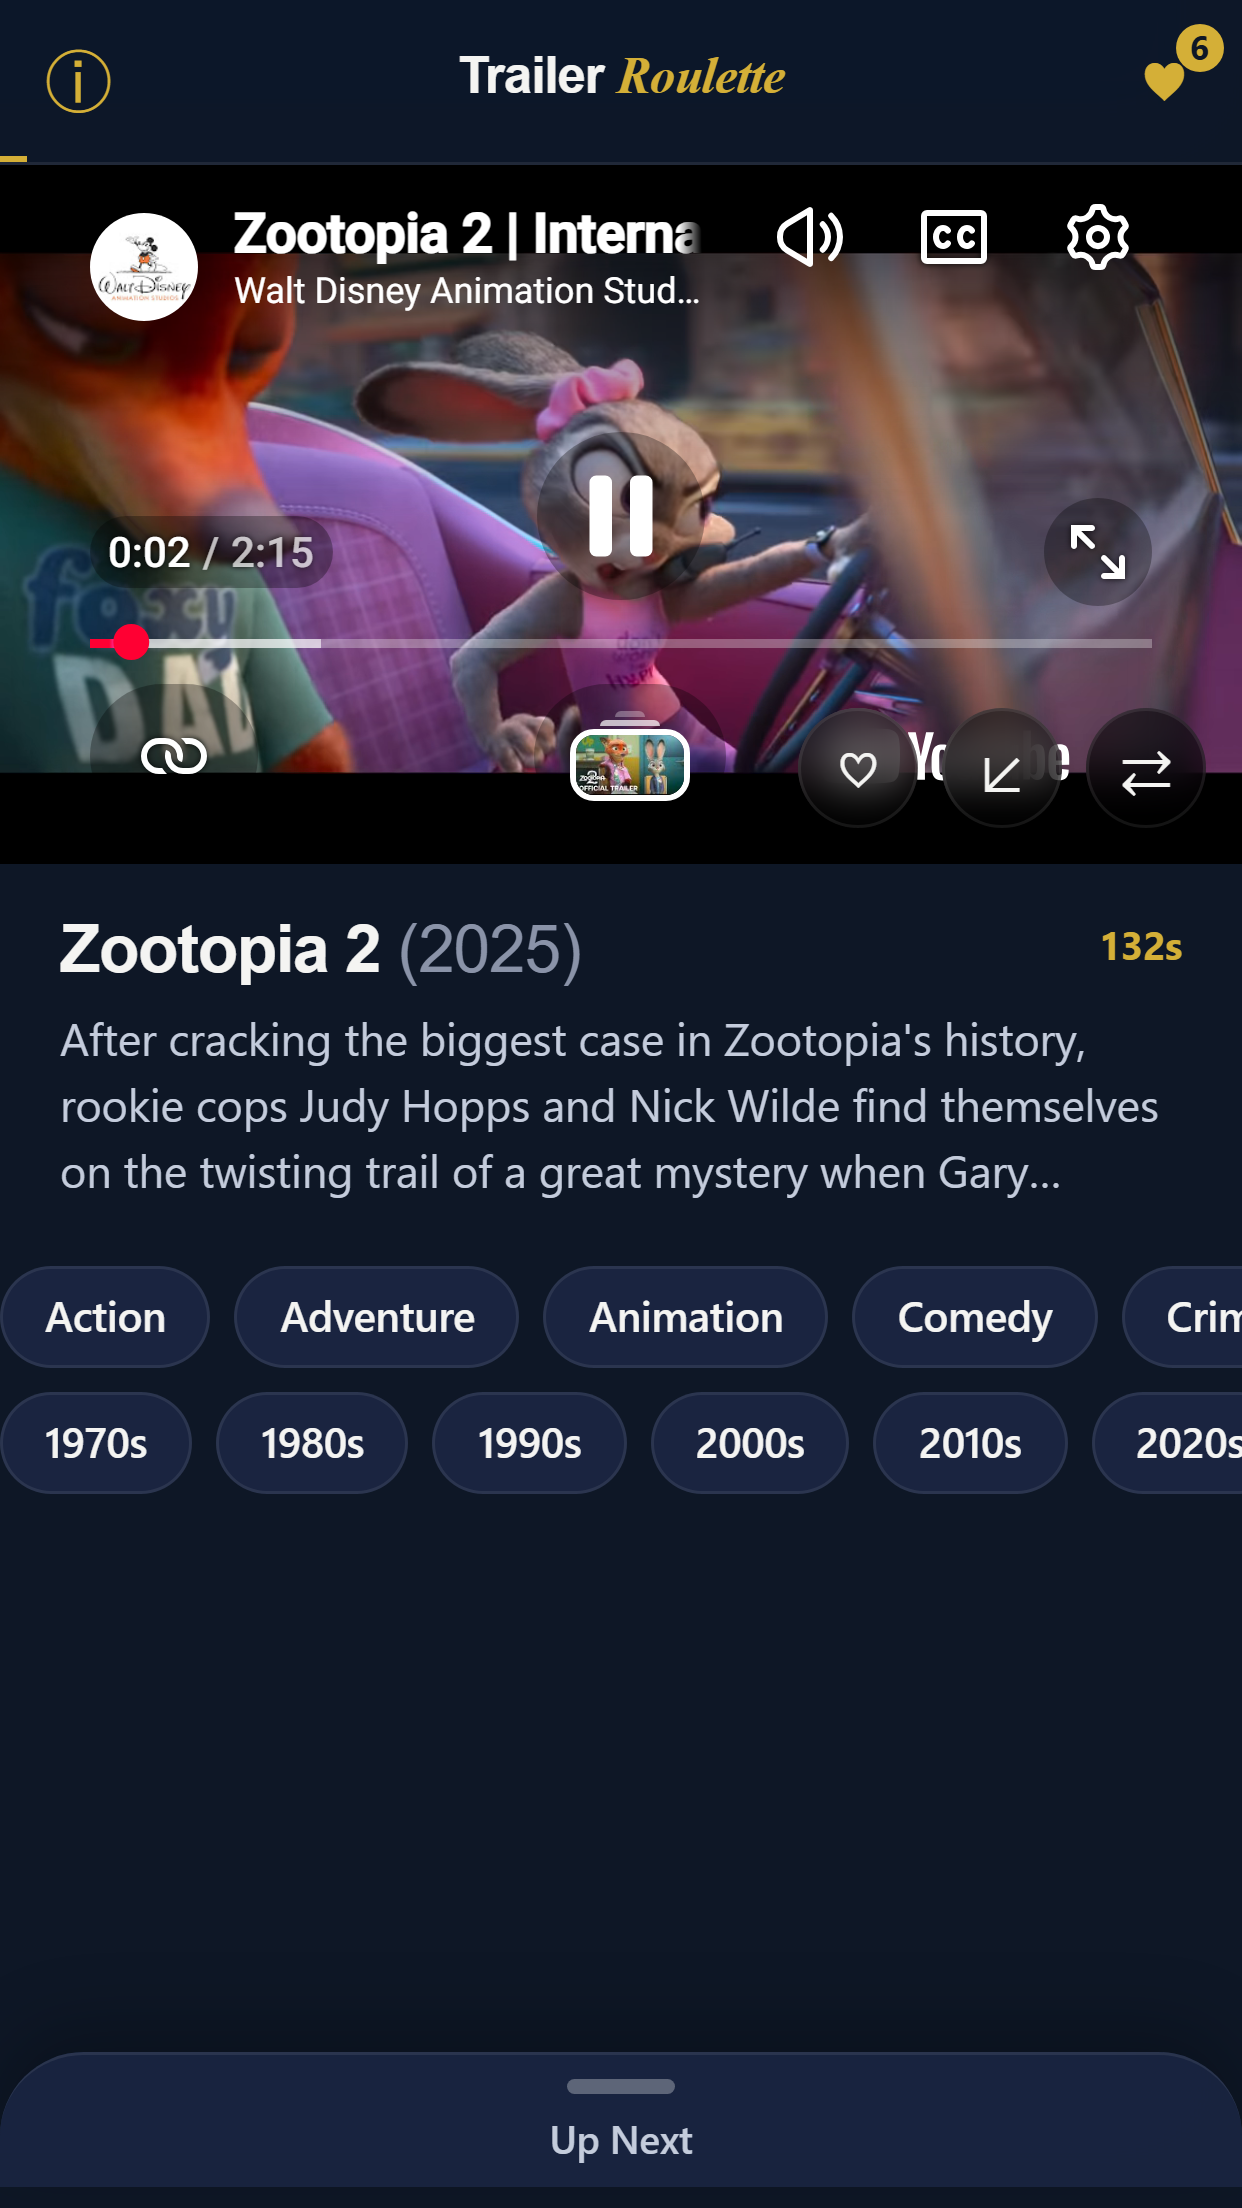
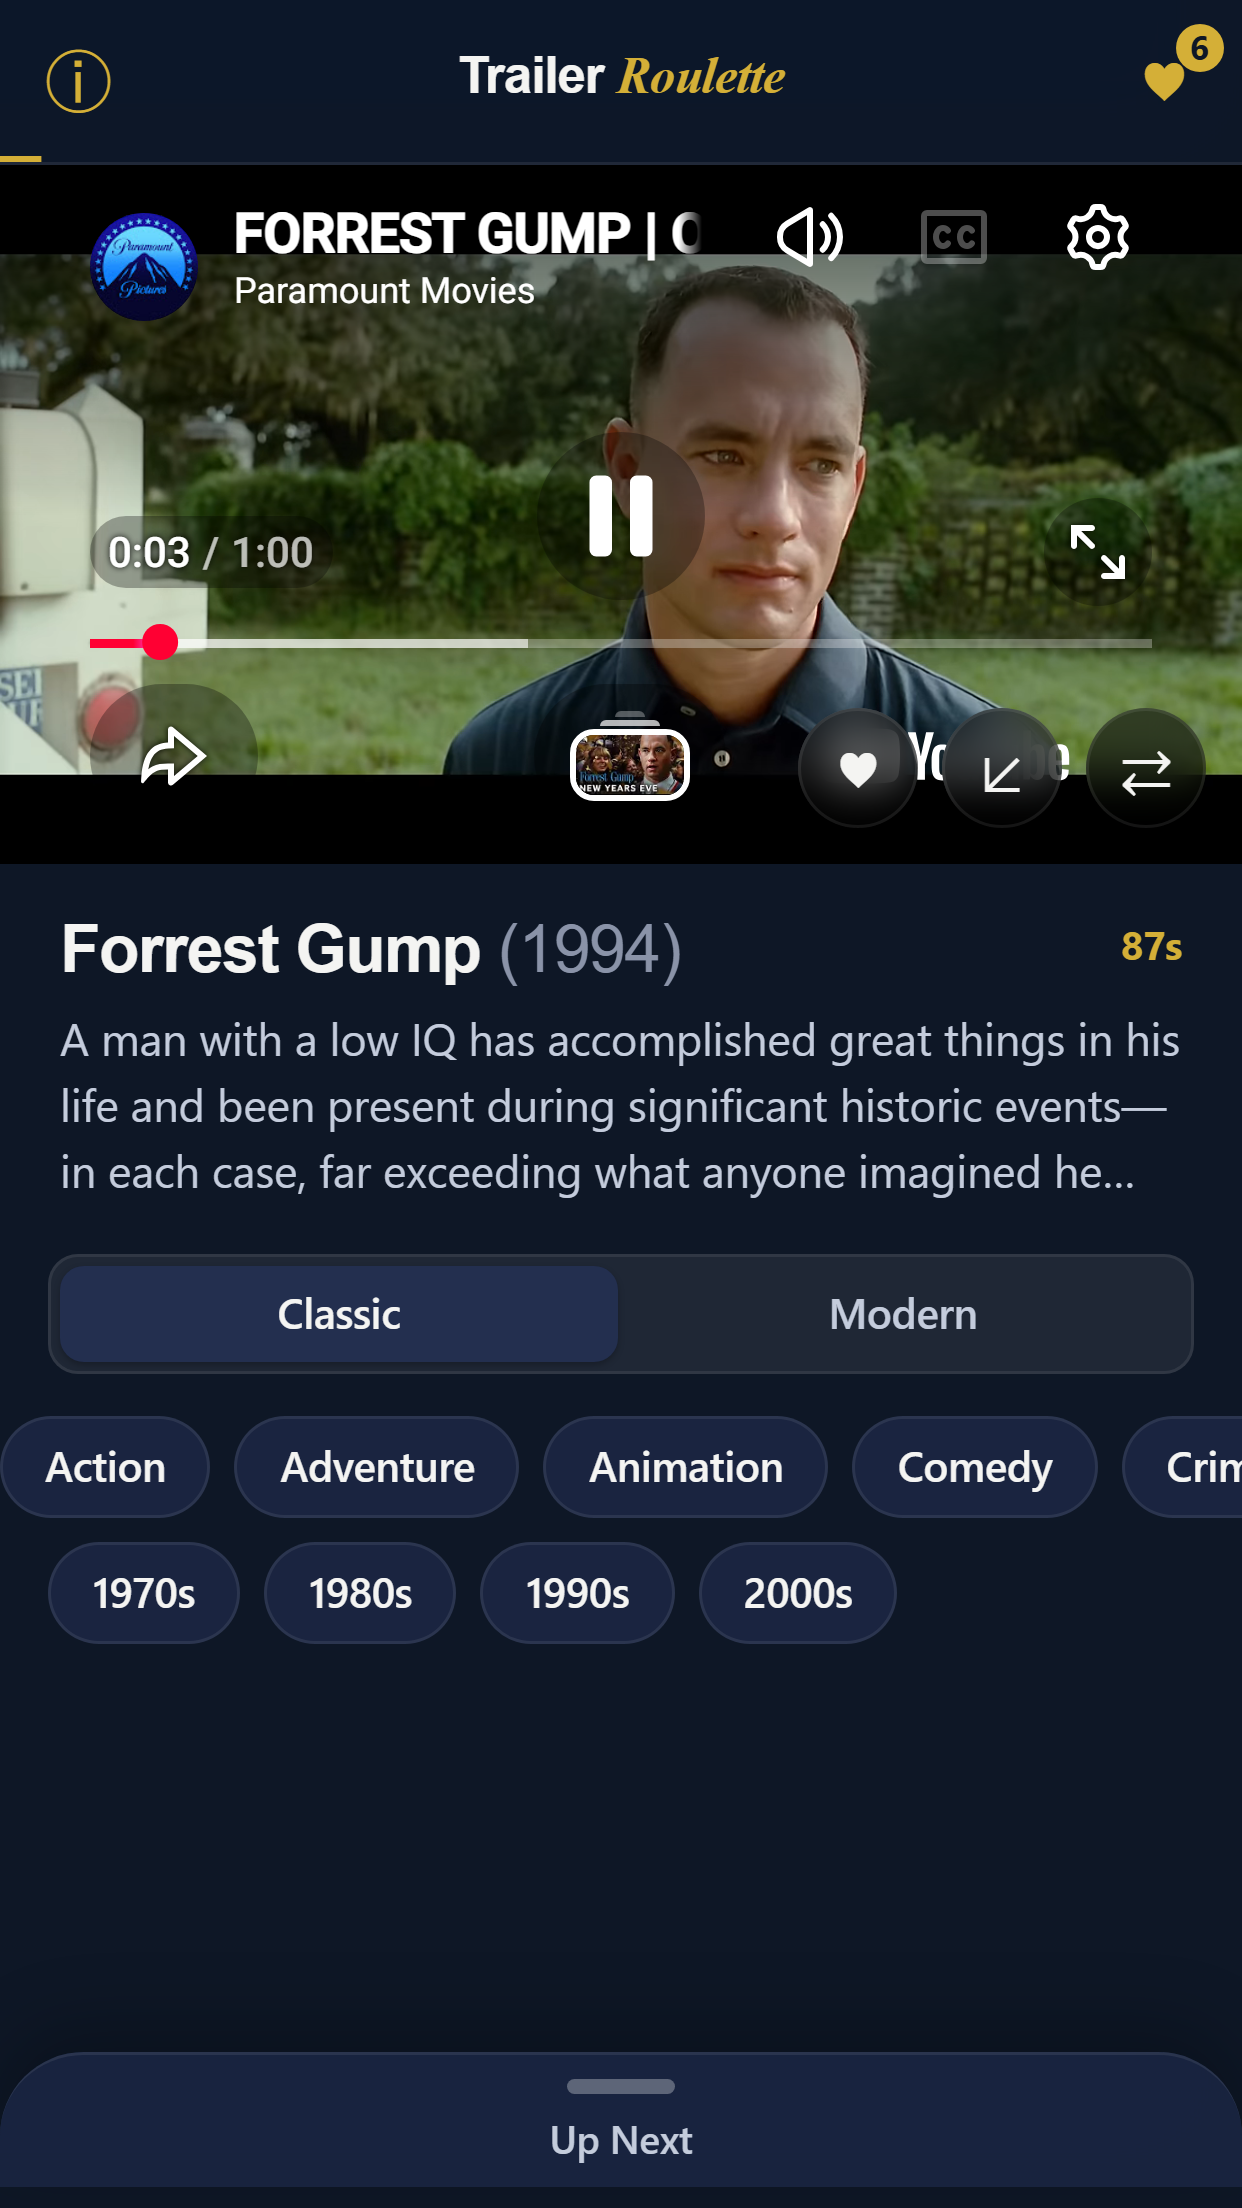
feat: pivot to pre-2010 cinema as default catalog (v1.8.0)
Charlie's product call: focus the app on pre-2010 trailers. Reasons:
- Older studio uploads are far less likely to have embed restrictions, so we sidestep a chunk of the YT error 152 surface that v1.7.1 has to handle reactively
- Sharper editorial position vs every other 'what's hot now' app
- Richer historical catalog gives the taste profile / weighted shuffle more dimensions to differentiate on

Changes:
- tmdb.discoverMovies: new 'era' param. Default 'classic' adds primary_release_date.lte=2009-12-31 and bumps vote_count.gte to 250 (anchor on recognizable films, not deep cuts). 'modern' drops the upper bound and uses the previous threshold of 100.
- Filters.jsx: new iOS-segmented-control Era toggle (Classic/Modern), placed above genre/decade chips. Decade chips scope to the active era — Classic shows 1970s/1980s/1990s/2000s; Modern shows 2010s/2020s.
- TrailerRoulette.jsx: filters default { era: 'classic', genre: null, decade: null }; persisted filters from older versions get migrated on load.
- Onboarding card 1 rewritten to lead with 'A tour of pre-2010 cinema' and mention the Modern toggle
- AboutScreen tagline: 'A guided tour of pre-2010 cinema, one trailer at a time.'
- store-listing/description.md, keywords.md, whats-new-v1.8.0.md: copy refreshed to lead with the classic positioning
- index.css: new .era-toggle / .era-segment styles matching Apple HIG segmented control
[…]

diff --git a/app/src/components/Filters.jsx b/app/src/components/Filters.jsx
@@ -1,9 +1,8 @@
 /**
- * Filters — genre + decade selectors. Horizontal-scroll on mobile for narrow
- * screens; wraps on desktop.
- *
- * Genre IDs come from TMDB's standard list; we hard-code the popular ones to
- * avoid an extra API call at boot.
+ * Filters — era + genre + decade selectors. Trailer Roulette's default
+ * catalog is pre-2010 cinema; users can flip to "Modern" if they want
+ * the current Hollywood window. Decade chips below the era toggle are
+ * scoped to the active era so the user always sees a coherent set.
  */
 import * as haptics from '../lib/haptics.js';
 
@@ -28,9 +27,14 @@ const GENRES = [
   { id: 37, label: 'Western' },
 ];
 
-const DECADES = ['1970', '1980', '1990', '2000', '2010', '2020'];
+// Pre-2010 leads, in chronological order. Modern era surfaces 2010s/2020s.
+const CLASSIC_DECADES = ['1970', '1980', '1990', '2000'];
+const MODERN_DECADES = ['2010', '2020'];
 
 export default function Filters({ value, onChange }) {
+  const era = value.era === 'modern' ? 'modern' : 'classic';
+  const decades = era === 'classic' ? CLASSIC_DECADES : MODERN_DECADES;
+
   const setGenre = (id) => {
     haptics.selection();
     onChange({ ...value, genre: value.genre === id ? null : id });
@@ -39,13 +43,40 @@ export default function Filters({ value, onChange }) {
     haptics.selection();
     onChange({ ...value, decade: value.decade === decade ? null : decade });
   };
+  const setEra = (nextEra) => {
+    if (era === nextEra) return;
+    haptics.medium();
+    // Swapping era invalidates the decade pick (modern decades aren't valid
+    // in classic era and vice versa). Keep genre.
+    onChange({ ...value, era: nextEra, decade: null });
+  };
   const clear = () => {
     haptics.light();
-    onChange({ genre: null, decade: null });
+    onChange({ ...value, genre: null, decade: null });
   };
 
   return (
     <div className="filters">
+      {/* Era toggle — segmented control, iOS-style */}
+      <div className="era-toggle" role="tablist" aria-label="Era">
+        <button
+          className={`era-segment ${era === 'classic' ? 'active' : ''}`}
+          onClick={() => setEra('classic')}
+          role="tab"
+          aria-selected={era === 'classic'}
+        >
+          Classic
+        </button>
+        <button
+          className={`era-segment ${era === 'modern' ? 'active' : ''}`}
+          onClick={() => setEra('modern')}
+          role="tab"
+          aria-selected={era === 'modern'}
+        >
+          Modern
+        </button>
+      </div>
+
       <div className="filters-row" role="tablist" aria-label="Genre filter">
         {GENRES.map((g) => (
           <button
@@ -60,7 +91,7 @@ export default function Filters({ value, onChange }) {
         ))}
       </div>
       <div className="filters-row" role="tablist" aria-label="Decade filter">
-        {DECADES.map((d) => (
+        {decades.map((d) => (
           <button
             key={d}
             className={`chip ${value.decade === d ? 'active' : ''}`}

diff --git a/app/src/components/TrailerRoulette.jsx b/app/src/components/TrailerRoulette.jsx
@@ -23,7 +23,9 @@ const DEFAULT_CYCLE_SECONDS = 90;
 const PREFETCH_LOOKAHEAD = 2;
 
 export default function TrailerRoulette({ onOpenWatchlist, onOpenAbout }) {
-  const [filters, setFilters] = useState({ genre: null, decade: null });
+  // Default era is 'classic' (pre-2010). Persisted in storage so a user's
+  // explicit choice survives across sessions.
+  const [filters, setFilters] = useState({ era: 'classic', genre: null, decade: null });
   const [queue, setQueue] = useState([]);            // upcoming trailers
   const [current, setCurrent] = useState(null);
   const [profile, setProfile] = useState(null);
@@ -59,7 +61,10 @@ export default function TrailerRoulette({ onOpenWatchlist, onOpenAbout }) {
       await saveProfile(storedProfile);
 
       setProfile(storedProfile);
-      if (storedFilters) setFilters(storedFilters);
+      if (storedFilters) {
+        // Migrate older shapes (no era field) to default classic.
+        setFilters({ era: 'classic', ...storedFilters });
+      }
       setWatchlistIds(new Set((watchlist || []).map((w) => w.id)));
       await loadQueue(storedFilters || filters, storedProfile);
     }
@@ -72,7 +77,11 @@ export default function TrailerRoulette({ onOpenWatchlist, onOpenAbout }) {
   const loadQueue = useCallback(async (f, p) => {
     try {
       setLoadError(null);
-      const data = await discoverMovies({ genre: f.genre, decade: f.decade });
+      const data = await discoverMovies({
+        genre: f.genre,
+        decade: f.decade,
+        era: f.era || 'classic',
+      });
       const candidates = (data.results || []).map((m) => ({
         id: m.id,
         title: m.title,

diff --git a/app/src/lib/tmdb.js b/app/src/lib/tmdb.js
@@ -45,17 +45,35 @@ async function call(path, params = {}) {
   return r.json();
 }
 
-export async function discoverMovies({ genre, decade, page = 1 } = {}) {
+/**
+ * The default catalog window. Trailer Roulette is positioned as a tour of
+ * pre-2010 cinema — fewer YouTube embed restrictions on older studio
+ * uploads, and a sharper editorial position than "what's hot now."
+ *
+ * Users can opt into modern cinema via the Era toggle in Filters; that
+ * sets `era: 'modern'` and we drop the upper bound here.
+ */
+export const DEFAULT_ERA_END = '2009-12-31';
+
+export async function discoverMovies({ genre, decade, era = 'classic', page = 1 } = {}) {
+  // Higher vote_count threshold for the classic era so the queue is
+  // anchored to recognizable films, not deep-cuts. Modern era keeps the
+  // looser threshold because TMDB has full popularity signals on recent
+  // releases.
+  const isClassic = era !== 'modern';
   const params = {
     sort_by: 'popularity.desc',
     page,
     include_adult: false,
-    'vote_count.gte': 100,
+    'vote_count.gte': isClassic ? 250 : 100,
   };
   if (genre) params.with_genres = genre;
   if (decade) {
     params['primary_release_date.gte'] = `${decade}-01-01`;
     params['primary_release_date.lte'] = `${Number(decade) + 9}-12-31`;
+  } else if (isClassic) {
+    // Classic era default: anything released up to and including 2009.
+    params['primary_release_date.lte'] = DEFAULT_ERA_END;
   }
   return call('/discover/movie', params);
 }

diff --git a/app/src/styles/index.css b/app/src/styles/index.css
@@ -349,8 +349,38 @@ a { color: var(--gold); text-decoration: none; }
   letter-spacing: -0.01em;
 }
 
-/* ───────── Filters (iOS chip pattern) ───────── */
+/* ───────── Filters (iOS chip pattern + segmented control) ───────── */
 .filters { padding: 12px 0 8px; }
+
+/* Era toggle — iOS-style segmented control */
+.era-toggle {
+  display: flex;
+  margin: 0 16px 10px;
+  padding: 3px;
+  background: rgba(255,255,255,0.07);
+  border: 1px solid var(--hairline);
+  border-radius: 10px;
+  gap: 2px;
+}
+.era-segment {
+  flex: 1 1 0;
+  min-height: 32px;
+  min-width: 0;
+  padding: 6px 14px;
+  border-radius: 8px;
+  background: transparent;
+  color: var(--fg-2);
+  font-size: 14px;
+  font-weight: 600;
+  letter-spacing: -0.01em;
+  transition: background 0.18s ease, color 0.18s ease;
+}
+.era-segment.active {
+  background: var(--bg-3);
+  color: var(--fg);
+  box-shadow: 0 1px 2px rgba(0,0,0,0.25);
+}
+
 .filters-row {
   display: flex;
   gap: 8px;

diff --git a/app/src/components/AboutScreen.jsx b/app/src/components/AboutScreen.jsx
@@ -7,7 +7,7 @@
  */
 import { Capacitor } from '@capacitor/core';
 
-const VERSION = '1.0.0';
+const VERSION = '1.8.0';
 
 export default function AboutScreen({ onClose }) {
   const platform = Capacitor.getPlatform();
@@ -22,7 +22,7 @@ export default function AboutScreen({ onClose }) {
 
       <section className="about-section">
         <h2>Trailer Roulette</h2>
-        <p className="tagline">Shuffle through trailers like channels. Save what you love.</p>
+        <p className="tagline">A guided tour of pre-2010 cinema, one trailer at a time.</p>
         <p className="version">v{VERSION} · {platform}</p>
       </section>
 

diff --git a/app/src/components/Onboarding.jsx b/app/src/components/Onboarding.jsx
@@ -17,8 +17,8 @@ import * as haptics from '../lib/haptics.js';
  */
 const CARDS = [
   {
-    title: 'Spin through trailers like channels.',
-    body: 'Tap Play and a trailer starts. When it ends, the next one queues up automatically. Stop when something grabs you.',
+    title: 'A tour of pre-2010 cinema.',
+    body: 'Trailer Roulette spins through trailers from the 70s, 80s, 90s and 2000s — the era that built modern movies. Want something newer? Flip the Era toggle to Modern any time.',
     icon: '⇄',
   },
   {

diff --git a/store-listing/description.md b/store-listing/description.md
@@ -1,6 +1,8 @@
-# App Store description — v1.0 final
+# App Store description — v1.8 final
 
-Paste this directly into App Store Connect. Order is intentional — the first three lines are above the App Store fold; "trailers" intentionally appears late.
+Paste this directly into App Store Connect. Order is intentional — the first
+three lines are above the App Store fold; the unique pre-2010 positioning is
+the headline.
 
 ---
 
@@ -8,28 +10,30 @@ Paste this directly into App Store Connect. Order is intentional — the first t
 ```
 Trailer Roulette
 ```
-(16 chars. If "Trailer Roulette" is taken, fall back to "Trailer Roulette: Reel" — 22 chars.)
+(16 chars.)
 
 ## Subtitle (≤30 chars)
 ```
-Shuffle. Discover. Save.
+Trailers from another era.
 ```
-(24 chars.)
+(26 chars.)
 
 ## Description (≤4000 chars)
 
 ```
-Trailer Roulette is a movie-discovery slot machine for your iPhone. Spin through hand-picked trailers like channels, save the ones you love, and let the app learn your taste — every swipe sharpens what comes next.
+Trailer Roulette is a guided tour of pre-2010 cinema, one trailer at a time. Spin through movies from the 70s, 80s, 90s and 2000s — the era that built modern Hollywood — save the ones that hit, and let the app learn your taste.
 
 WHAT YOU GET
 
-• Shuffle through trailers like a TV channel. The 90-second cycle keeps things moving — stop when something grabs you.
+• A classic catalog. The default queue draws from pre-2010 movies with broad recognition. Want something newer? Flip the Era toggle and the catalog opens up to the 2010s and 2020s.
+
+• Channel-flipping trailers. Tap Play; the trailer opens in a clean fullscreen player inside the app. When it ends, the next one queues up. Swipe to skip what doesn't grab you.
 
 • Watchlist. Tap the heart on anything to save it for later. Your list, on your device, no account needed.
 
-• Seen it / Skip it. Swipe right on what you loved, left on what you didn't. The app builds a private taste profile right on your phone and biases future shuffles toward what you'll likely love. Nothing leaves the device.
+• Seen it / Skip it swipes. Right for what you loved, left for what you didn't. The app builds a private taste profile right on your phone and biases future shuffles toward what you'll likely love. Nothing leaves the device.
 
-• Filters. Genre + decade chips shape the queue. Build a "Friday night horror" run, a "90s rom-com" run, anything.
+• Filters. Genre + decade chips shape the queue. Build a "Friday night horror," a "70s Western," a "90s rom-com" run.
 
 • AirPlay. Throw it on the TV with one tap.
 
@@ -37,14 +41,14 @@ WHAT YOU GET
 
 ABOUT TRAILERS
 
-Trailer Roulette plays trailers via YouTube's official embedded player. We don't host, copy, or modify trailers — we curate the feed and learn what you love.
+Trailer Roulette plays trailers via YouTube's official embedded player in an in-app modal. We don't host, copy, or modify trailers — we curate the feed and learn what you love.
 
 Movie metadata from TMDB. This product uses the TMDB API but is not endorsed or certified by TMDB.
 
 Questions or feedback: crescicharles@gmail.com
 ```
 
-(~1200 chars used; lots of room for testimonials in v1.1+.)
+(~1450 chars; lots of room for testimonials in v1.x+.)
 
 ## Apple required disclosures footer
 *This product uses the TMDB API but is not endorsed or certified by TMDB.* — already included above; keep the line in any future revisions.

diff --git a/store-listing/whats-new-v1.8.0.md b/store-listing/whats-new-v1.8.0.md
@@ -1,0 +1,25 @@
+# What's New — v1.8.0
+
+For App Store Connect "What's New" field on the v1.8.0 update submission.
+
+## v1.8.0 (paste this)
+
+```
+Trailer Roulette is now a tour of pre-2010 cinema by default — the 70s, 80s, 90s and 2000s, the films that built modern Hollywood. Want something newer? Flip the new Era toggle to Modern any time.
+
+Also in this update:
+• Trailers play in a clean fullscreen modal inside the app instead of bouncing you to Safari.
+• Trailers that publishers have blocked from embedding now skip automatically — no more error screens.
+```
+
+(415 chars.)
+
+## Why this messaging
+
+The lead says what changed for the user (tour of pre-2010), and the secondary
+bullets cover the playback fixes. Nothing about the underlying engineering
+saga (WebKit Bug 169846, the YT 153/152 errors, the proxy attempts) — App
+Store readers don't care; they care about the user-visible difference.
+
+The "Modern toggle" mention reassures users who only want recent films that
+the app still serves them.

diff --git a/store-listing/keywords.md b/store-listing/keywords.md
@@ -5,10 +5,13 @@ Apple's keyword field is one comma-separated string, no spaces around commas, ma
 ## Final string (paste this into App Store Connect)
 
 ```
-trailers,shuffle,discover,watchlist,movie picker,roulette,date night,cinephile
+trailers,classic,vintage,80s,90s,cinephile,watchlist,movie picker,date night
 ```
 
-**Character count: 78 / 100.** Twenty-two characters of headroom for ASO tuning post-launch.
+**Character count: 76 / 100.** Twenty-four characters of headroom. The
+classic/vintage/80s/90s tokens lean into the new pre-2010 positioning;
+"shuffle" / "discover" / "roulette" come back via Apple's auto-indexing
+of the app name and subtitle.
 
 ## Why these and not others
 
